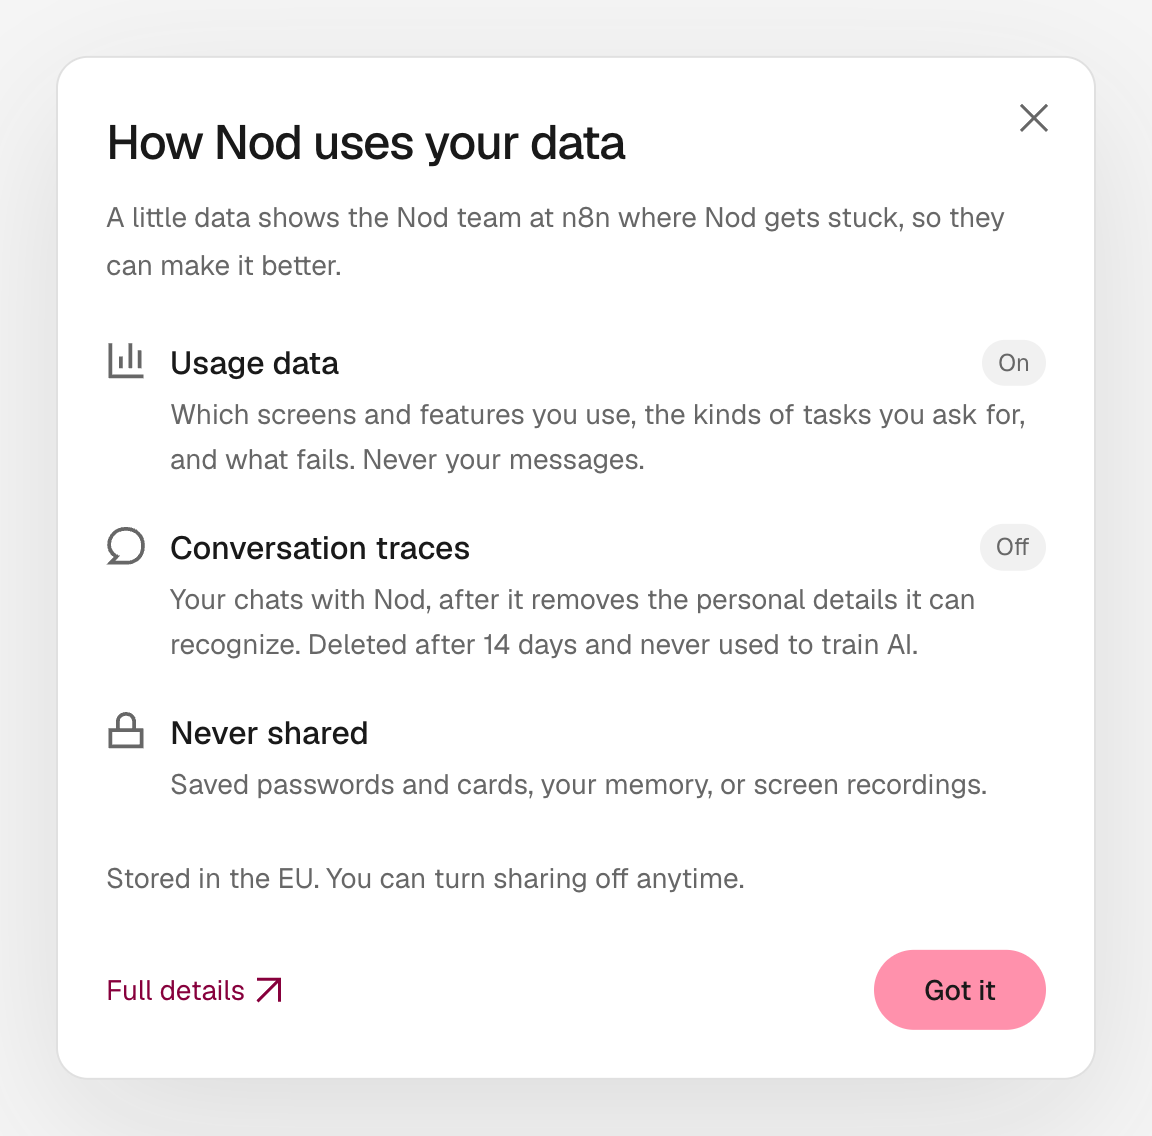
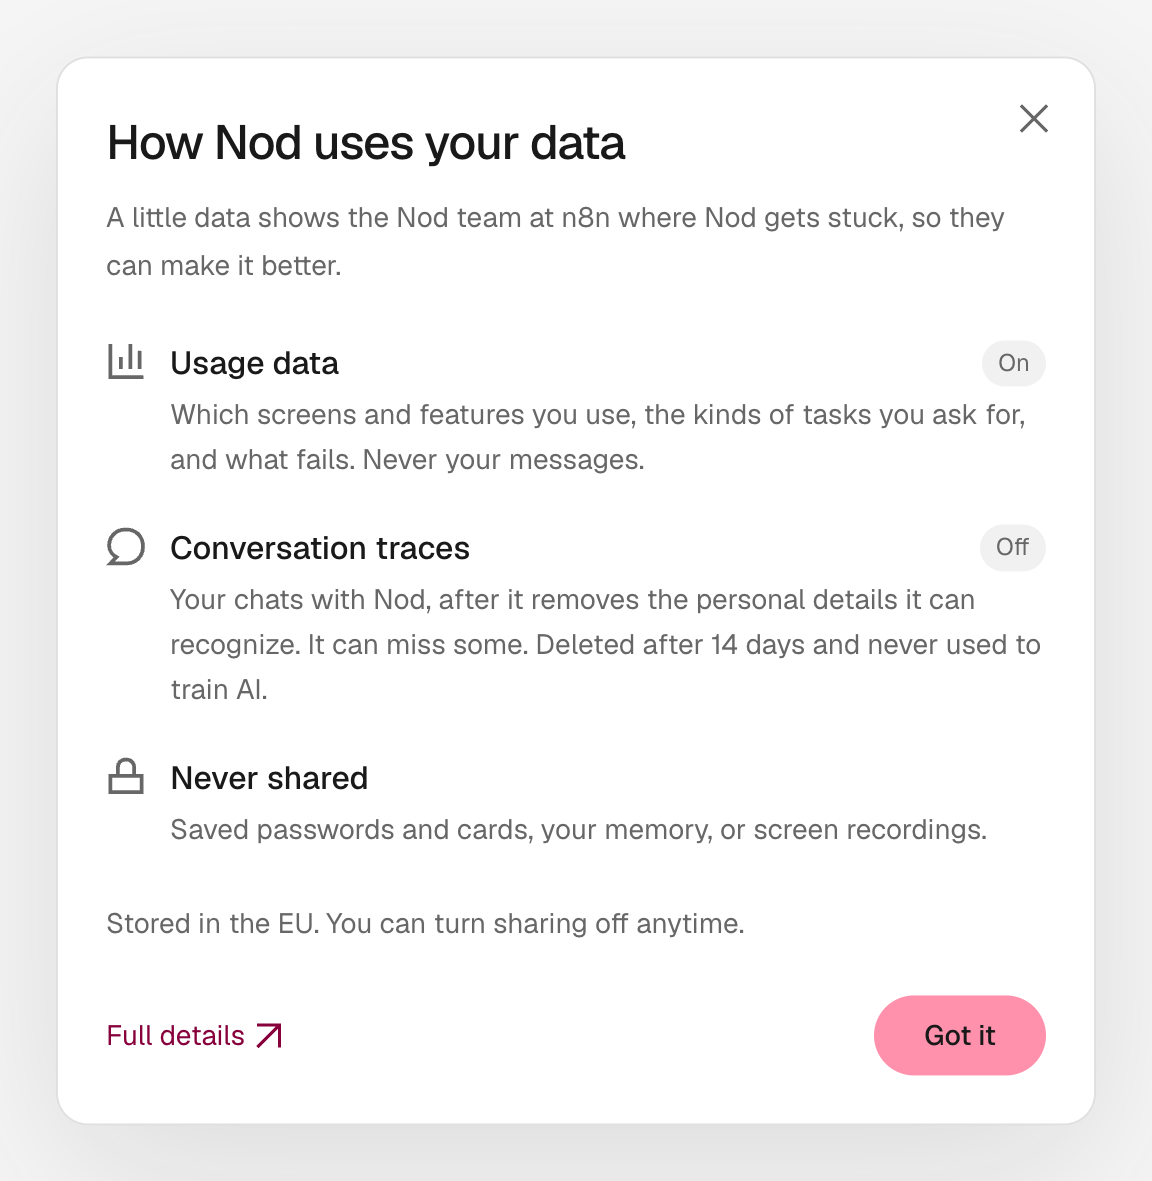
fix(onboarding): show usage state and scrubbing limits in the data panel
Show the usage data row as Off when sharing is off, say that trace
scrubbing can miss details, and name session replays and device details
in the docs summary.

diff --git a/src/web/pages/onboarding/steps/privacy.tsx b/src/web/pages/onboarding/steps/privacy.tsx
@@ -54,13 +54,11 @@ export function Privacy({ arrived, onNext, onBack, nextLabel, traces, usageShare
     <section className="ob-step ob-privacy" onClick={done ? undefined : skip}>
       <Messages revealed={revealed} typing={typing} items={items} />
       <Rise show={done} className="ob-choices">
-        {(usageShared || traces) && (
-          <DataSharing
-            className="ob-link ob-data-sharing"
-            usage={usageShared || undefined}
-            traces={traces?.enabled}
-          />
-        )}
+        <DataSharing
+          className="ob-link ob-data-sharing"
+          usage={Boolean(usageShared)}
+          traces={traces?.enabled}
+        />
         {traces ? (
           <>
             <Button

diff --git a/src/web/components/data-sharing.tsx b/src/web/components/data-sharing.tsx
@@ -75,8 +75,8 @@ export function DataSharing({
           )}
           {traces !== undefined && (
             <Item icon={MessageSquareText} title="Conversation traces" state={state(traces)}>
-              Your chats with Nod, after it removes the personal details it can recognize. Deleted
-              after 14 days and never used to train AI.
+              Your chats with Nod, after it removes the personal details it can recognize. It can
+              miss some. Deleted after 14 days and never used to train AI.
             </Item>
           )}
           <Item icon={LockKeyhole} title="Never shared">

diff --git a/docs/src/content/docs/trust/privacy.md b/docs/src/content/docs/trust/privacy.md
@@ -17,14 +17,14 @@ The desktop app checks n8n's update service for new versions, which sees your IP
 
 Nod shares a little data with the Nod team at n8n so they can find where Nod gets stuck and fix it. There are two kinds, and each has its own switch in **Settings → Privacy & data**.
 
-|                | Usage data                                                                                                            | Conversation traces                                                                                     |
-| -------------- | --------------------------------------------------------------------------------------------------------------------- | ------------------------------------------------------------------------------------------------------- |
-| Starts         | On for new owners                                                                                                     | Off until you choose to share                                                                           |
-| Includes       | The screens and features you use, the kinds of tasks you ask for, timings, costs, and failures                        | Your conversations with Nod, including what it reads and does, minus the personal details it recognizes |
-| Never includes | Your messages, Nod's replies, what Nod reads, saved passwords and cards, names, email addresses, or screen recordings | Saved passwords and cards, your saved memory, images, or any account or device ID                       |
-| Kept           | In n8n's PostHog project in the EU                                                                                    | In n8n's LangSmith project in the EU for 14 days, and never used to train AI models                     |
-| Switch         | **Share usage data**                                                                                                  | **Share conversation traces**                                                                           |
-| More           | [Usage analytics](#usage-analytics)                                                                                   | [Conversation traces](/trust/conversation-traces/)                                                      |
+|                | Usage data                                                                                                                               | Conversation traces                                                                                     |
+| -------------- | ---------------------------------------------------------------------------------------------------------------------------------------- | ------------------------------------------------------------------------------------------------------- |
+| Starts         | On for new owners                                                                                                                        | Off until you choose to share                                                                           |
+| Includes       | The screens and features you use, the kinds of tasks you ask for, timings, costs, and failures, plus basic device details and random IDs | Your conversations with Nod, including what it reads and does, minus the personal details it recognizes |
+| Never includes | Your messages, Nod's replies, what Nod reads, saved passwords and cards, names, email addresses, screen recordings, or session replays   | Saved passwords and cards, your saved memory, images, or any account or device ID                       |
+| Kept           | In n8n's PostHog project in the EU                                                                                                       | In n8n's LangSmith project in the EU for 14 days, and never used to train AI models                     |
+| Switch         | **Share usage data**                                                                                                                     | **Share conversation traces**                                                                           |
+| More           | [Usage analytics](#usage-analytics)                                                                                                      | [Conversation traces](/trust/conversation-traces/)                                                      |
 
 A server operator can turn either kind off for everyone, or send traces to a different receiver.
 
